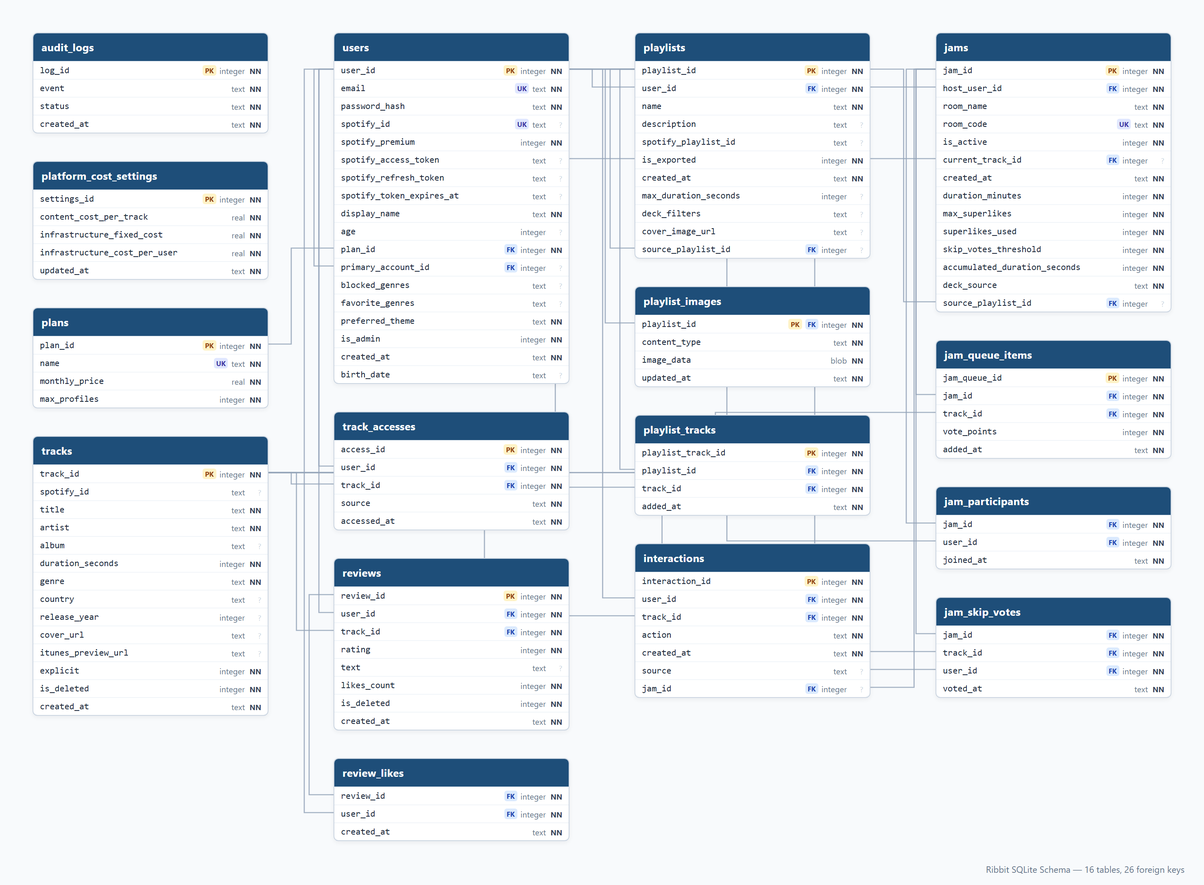
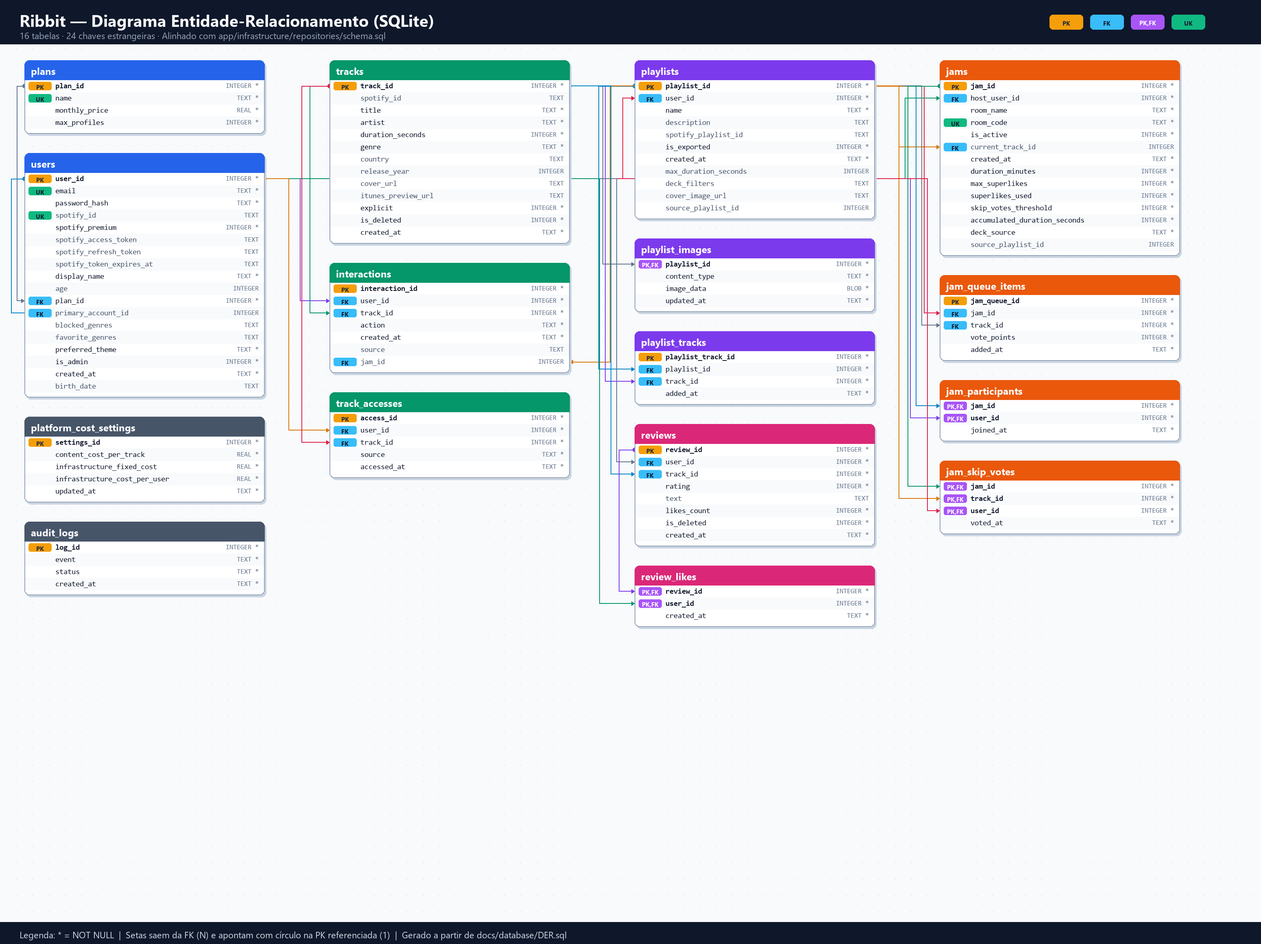
docs: Sync DER, SQL scripts, README, and TODO
Align DER.sql, DER.png, modular SQL scripts, and README erDiagram with
schema.sql; add Team Responsibilities, Definition of Done, CI/CD, and
AI Usage sections; update Ubuntu 26.04 setup, locked versions, and test
badges; and trim TODO.md to remaining manual tasks.

diff --git a/README.md b/README.md
@@ -4,8 +4,8 @@
 
 [![Testes](https://github.com/gabrielGAGRA/Laboratorio_Engenharia_Software/actions/workflows/tests.yml/badge.svg)](https://github.com/gabrielGAGRA/Laboratorio_Engenharia_Software/actions/workflows/tests.yml)
 [![Quality Gate](https://github.com/gabrielGAGRA/Laboratorio_Engenharia_Software/actions/workflows/quality-gate.yml/badge.svg)](https://github.com/gabrielGAGRA/Laboratorio_Engenharia_Software/actions/workflows/quality-gate.yml)
-![Testes Automatizados](https://img.shields.io/badge/tests-1146%20passed%20(927%20pytest%20%2B%20219%20vitest)-brightgreen)
-![Cobertura de Código](https://img.shields.io/badge/coverage-%E2%89%A585%25%20(pytest--cov)-blue)
+![Testes Automatizados](https://img.shields.io/badge/tests-1307%20passed%20(1007%20pytest%20%2B%20300%20vitest)-brightgreen)
+![Cobertura de Código](https://img.shields.io/badge/coverage-%E2%89%A585%25%20(pytest--cov%2089.21%25%20%7C%20vitest%20v8%2087.27%25)-blue)
 
 ### Time: Crazy Frogs
 - Carolina Britto Haddad
@@ -13,13 +13,21 @@
 - Gabriel Agra de Castro Motta
 - Mateus Silva de Araújo
 
+### Divisão de Responsabilidades da Equipe
+- **Gabriel Agra**: Arquitetura hexagonal e estrutura base (refatoração inicial e revisões de PRs); regras de engenharia, linters e type-checking (Python, Angular e TypeScript: Ruff, Pyrefly, Oxlint, ESLint-Angular); testes (pytest, vitest, cobertura >= 85%, E2E Playwright e vídeos) e CI/CD (quality gate e verificação de cobertura); README, badges, histórico de escuta, filtros/ordenação por avaliações, criação de faixas, métricas de interação, painel de custos e analytics de acessos no Admin.
+- **Carolina Haddad**: *(a completar)*
+- **Fernando Mendes**: *(a completar)*
+- **Mateus Araujo**: *(a completar)*
+
 ## Sumário
 - [Sobre](#sobre)
+- [Divisão de Responsabilidades da Equipe](#divisão-de-responsabilidades-da-equipe)
 - [Funcionalidades](#funcionalidades)
   - [Aplicativo](#aplicativo)
   - [Painel Administrativo](#painel-administrativo-web)
 - [Descrição de Uso do Sistema](#descrição-de-uso-do-sistema)
 - [Histórias de Usuário](#histórias-de-usuário)
+  - [Definição de Done (DoD)](#definição-de-done-dod)
 - [Arquitetura e Tecnologias](#arquitetura-e-tecnologias)
   - [Ferramentas, Bibliotecas, Frameworks e SGBD](#ferramentas-bibliotecas-frameworks-e-sgbd)
   - [Mapeamento MVC e Arquitetura Hexagonal](#mapeamento-mvc-e-arquitetura-hexagonal)
@@ -31,6 +39,8 @@
 - [Fluxo de Execução para o Administrador / Avaliador](#fluxo-de-execução-para-o-administrador--avaliador)
 - [Como Visualizar](#como-visualizar)
 - [Testes Automatizados & Qualidade](#testes-automatizados--qualidade)
+  - [Integração Contínua (CI/CD)](#integração-contínua-cicd)
+- [Uso de IA](#uso-de-ia)
 
 ---
 
@@ -119,7 +129,7 @@ O projeto é composto por duas frentes:
 
 ## Descrição de Uso do Sistema
 
-1. **Cadastro e Login**: Na tela inicial (`/auth`), o usuário maior de 18 anos cria sua conta informando nome, e-mail, data de nascimento, senha e plano inicial (Free, Individual ou Família), ou realiza login com uma conta existente.
+1. **Cadastro e Login**: Na tela inicial (`/auth`), o usuário cria sua conta informando nome, e-mail, data de nascimento, senha e plano inicial (menores de 18 anos podem se cadastrar no plano **Free** ou participar como dependentes no **Plano Família**, enquanto planos pagos exigem maioridade), ou realiza login com uma conta existente.
 2. **Descoberta por Swipe (`/discover`)**: O usuário visualiza um card por vez com capa, metadados, selo **Ouvido** (quando já acessada) e prévia de áudio. Pode arrastar ou usar os botões para **Curtir** (direita), **Amar/Superlike** (cima), **Rejeitar** (esquerda), **Desfazer** (planos pagos, restaurando a faixa diretamente do backend) ou adicionar diretamente a uma playlist (`+`).
 3. **Playlists Inteligentes (`/playlists`)**: Permite criar playlists com filtros de duração, gênero, artista ou época e montá-las via swipe sem afetar as Curtidas globais, além de gerenciar faixas e exportar para o Spotify.
 4. **Jams Colaborativas (`/jams`)**: Usuários com Spotify Premium conectado criam uma sala (recebendo um código de 6 dígitos) ou entram em uma sala ativa para votar nas próximas faixas da fila e votar para pular a faixa atual.
@@ -132,13 +142,21 @@ O projeto é composto por duas frentes:
 
 As 35 histórias de usuário (HU01–HU35) abaixo consolidam o escopo funcional do projeto, detalhando **tipo de usuário**, **tarefas e subtarefas**, **responsável** e **critérios de aceitação**.
 
+### Definição de Done (DoD)
+
+Uma história de usuário é considerada **Done** apenas quando atende a todos os critérios abaixo:
+- [ ] **Código e Arquitetura:** Implementação aderente à arquitetura hexagonal (`app/`) e standalone/Signals (`view/`), revisada via Pull Request.
+- [ ] **Qualidade Estática:** Aprovado no *Quality Gate* sem erros (`ruff format --check`, `ruff check`, `pyrefly check`, `npm run lint`, `npm run typecheck`).
+- [ ] **Testes e Cobertura:** Testes unitários e/ou de integração cobrindo os critérios de aceitação, mantendo cobertura $\ge 85\%$ (`pytest --cov=app --cov-fail-under=85` e `vitest --coverage`).
+- [ ] **Validação E2E e Documentação:** Fluxos principais validados em navegador (`npm run test:e2e`) e documentação (`README.md`, `docs/database/`) atualizada quando aplicável.
+
 ### Épico 1 — Cadastro e Preferências
 
 | ID | Título | Tipo de Usuário | Tarefas e Subtarefas | Responsável | Critérios de Aceitação |
 | :--- | :--- | :--- | :--- | :--- | :--- |
 | **HU01** | Criar conta | Novo Usuário | **Backend:** Endpoint `POST /api/auth/register`, hash PBKDF2 e validação Pydantic.<br>**Frontend:** Tela de cadastro (`AuthComponent`) com validação de e-mail, senha e idade. | Gabriel Agra | • Consegue criar conta com solicitação e validação de dados.<br>• Acessa a conta imediatamente após o cadastro. |
 | **HU02** | Definir preferências musicais | Novo Usuário | **Backend:** Persistência de `favorite_genres` em `users` e endpoint de atualização.<br>**Frontend:** Seleção de gêneros e artistas favoritos no perfil/onboarding. | Carolina Haddad | • Seleciona gêneros e artistas de interesse.<br>• Preferências são salvas no perfil e usadas nas recomendações. |
-| **HU03** | Bloquear gêneros musicais | Usuário Padrão | **Backend:** Campo `blocked_genres` no modelo `User` e filtro em `RecommendationService`.<br>**Frontend:** Gestão de gêneros bloqueados em Configurações/Perfil. | Carolina Haddad | • Adiciona e remove gêneros bloqueados.<br>• Faixas exclusivamente desses gêneros não aparecem em Descobertas nem Playlists. |
+| **HU03** | Bloquear gêneros musicais | Usuário Padrão | **Backend:** Campo `blocked_genres` no modelo `User` e filtro em `recommendation.py` (`select_weighted_track`, `order_tracks_by_weighted_seed`).<br>**Frontend:** Gestão de gêneros bloqueados em Configurações/Perfil. | Carolina Haddad | • Adiciona e remove gêneros bloqueados.<br>• Faixas exclusivamente desses gêneros não aparecem em Descobertas nem Playlists. |
 
 ### Épico 2 — Descoberta de Músicas
 
@@ -148,7 +166,7 @@ As 35 histórias de usuário (HU01–HU35) abaixo consolidam o escopo funcional 
 | **HU05** | Curtir uma música | Usuário Padrão | **Backend:** `RecordSwipeInteractionUseCase` gravando `action='like'`.<br>**Frontend:** Gesto de swipe para a direita / botão Like e listagem em `/likes`. | Fernando Seraco | • Dá like e salva a faixa em Curtidas.<br>• Faixa não retorna como descoberta inédita e fica visível em Curtidas. |
 | **HU06** | Amar uma música | Usuário Padrão | **Backend:** `RecordSwipeInteractionUseCase` gravando `action='superlike'`.<br>**Frontend:** Gesto de swipe para cima / botão Superlike e listagem em `/loved`. | Fernando Seraco | • Dá superlike e adiciona a faixa às Amadas e Curtidas.<br>• Não reaparece na descoberta; visualizada separadamente em Amadas. |
 | **HU07** | Rejeitar uma música | Usuário Padrão | **Backend:** `RecordSwipeInteractionUseCase` gravando `action='dislike'`.<br>**Frontend:** Gesto de swipe para a esquerda / botão Rejeitar e listagem em `/rejected`. | Mateus Araújo | • Rejeita a faixa e a envia para Rejeitadas.<br>• Não retorna em Descobertas nem sugestões de Playlists.<br>• Listagem consultável pelo usuário. |
-| **HU08** | Descobrir músicas a partir das preferências | Usuário Padrão | **Backend:** Ponderação em `RecommendationService` por artistas/gêneros curtidos e amados.<br>**Frontend:** Atualização dinâmica do feed em `DiscoverComponent`. | Gabriel Agra | • Considera Curtidas, Amadas, artistas e gêneros favoritos.<br>• Exclui Rejeitadas e gêneros bloqueados.<br>• Permite avaliação por swipe. |
+| **HU08** | Descobrir músicas a partir das preferências | Usuário Padrão | **Backend:** Ponderação em `recommendation.py` (`select_weighted_track`, `order_tracks_by_weighted_seed`) por artistas/gêneros curtidos e amados.<br>**Frontend:** Atualização dinâmica do feed em `DiscoverComponent`. | Gabriel Agra | • Considera Curtidas, Amadas, artistas e gêneros favoritos.<br>• Exclui Rejeitadas e gêneros bloqueados.<br>• Permite avaliação por swipe. |
 
 ### Épico 3 — Playlists Inteligentes e Contextuais
 
@@ -218,14 +236,15 @@ As 35 histórias de usuário (HU01–HU35) abaixo consolidam o escopo funcional 
 #### Backend (Python — `requirements.txt` & `pyproject.toml`)
 | Biblioteca / Framework | Versão Exata | Finalidade |
 | :--- | :--- | :--- |
-| **FastAPI** | `0.162.0` | Framework web REST, roteamento e geração OpenAPI (`/docs`) |
+| **FastAPI** | `0.163.1` | Framework web REST, roteamento e geração OpenAPI (`/docs`) |
 | **Uvicorn** | `0.54.0` | Servidor ASGI para execução da API |
-| **Pydantic** + **email-validator** | `2.14.1` (`pydantic-core==2.50.1`, `email-validator==2.3.0`) | Validação de esquemas de entrada/saída e configurações |
-| **Starlette** + **AnyIO** | `1.10.0` / `4.15.1` | Camada ASGI subjacente e primitivos assíncronos |
-| **Niquests** | `3.21.2` | Cliente HTTP para integrações externas (Spotify, iTunes, Google OAuth) |
+| **Pydantic** + **email-validator** | `2.14.3` (`pydantic-core==2.50.4`, `email-validator==2.4.0`) | Validação de esquemas de entrada/saída e configurações |
+| **Starlette** + **AnyIO** | `1.10.0` / `4.16.0` | Camada ASGI subjacente e primitivos assíncronos |
+| **Niquests** | `3.21.3` | Cliente HTTP para integrações externas (Spotify, iTunes, Google OAuth) |
 | **Google Cloud Storage** | `3.17.1` | Leitura/compactação de catálogo no GCS e emulador local (`fake-gcs-server`) |
-| **PyArrow** | `26.0.0` | Leitura e escrita do catálogo musical em formato Apache Parquet |
-| **python-dotenv** | `1.0.1` | Carregamento de variáveis de ambiente via `.env` |
+| **PyArrow** | `26.0.1` | Leitura e escrita do catálogo musical em formato Apache Parquet |
+| **Pillow** | `13.0.0` | Processamento e validação de imagens de capa de playlists |
+| **python-dotenv** | `1.2.4` | Carregamento de variáveis de ambiente via `.env` |
 
 #### Frontend (TypeScript / Angular — `package.json`)
 | Biblioteca / Framework | Versão Exata | Finalidade |
@@ -244,14 +263,14 @@ As 35 histórias de usuário (HU01–HU35) abaixo consolidam o escopo funcional 
 #### Infraestrutura, Qualidade, Linting, Tipagem e Testes
 | Ferramenta | Versão Exata | Finalidade |
 | :--- | :--- | :--- |
-| **Docker Engine & Docker Compose** | `docker.io` `24.x+` / `docker-compose-v2` (`v2.x+`) | Orquestração local dos containers (`backend`, `frontend` e `gcs-emulator`) |
-| **Pytest** | `9.1.1` | Suíte de testes unitários e integração da API do backend (927 testes) |
-| **Playwright** | *(configurado em `tests/e2e/`)* | Testes funcionais ponta a ponta no navegador e gravação de vídeos de execução |
-| **Vitest** + **JSDOM** | `^5.1.0` (`package.json`, `v3.2.7` resolvido) / `^26.0.0` | Suíte de testes unitários do frontend Angular (219 testes) |
-| **Ruff** | `0.17.2` | Linter e formatador Python |
-| **Pyrefly** | `1.4.0` | Verificador estático de tipos Python (`preset = "strict"`) |
-| **Oxlint** + **oxlint-tsgolint** + **Oxfmt** | `^1.88.0` / `^7.0.2004` / `^0.73.0` | Linting *type-aware* e formatação TypeScript/HTML/CSS |
-| **ESLint** + **angular-eslint** | `^10.13.0` / `^22.6.0` | Regras de lint específicas para templates e componentes Angular |
+| **Docker Engine & Docker Compose** | `docker.io` `24.x+` / `docker-compose-v2` (`v2.x+`) / `nginx:alpine` | Orquestração local dos containers (`backend`, `frontend` servido via `nginx:alpine` e `gcs-emulator`) |
+| **Pytest** + **pytest-cov** + **coverage** + **Hypothesis** | `9.2.0` / `7.1.0` / `7.17.3` / `6.170.17` | Suíte de testes unitários, propriedade e integração da API do backend (1007 testes, 89.21% de cobertura) |
+| **Playwright** + **ffmpeg** | `1.65.1` (`@playwright/test`) / `ffmpeg` (Ubuntu) | Testes funcionais ponta a ponta no navegador e gravação de vídeos de execução (`npm run record:e2e`) |
+| **Vitest** + **@vitest/coverage-v8** + **JSDOM** | `5.1.2` / `5.1.2` / `26.1.0` | Suíte de testes unitários e cobertura do frontend Angular (300 testes em 45 arquivos, 87.27% de linhas) |
+| **Ruff** | `0.17.5` | Linter e formatador Python |
+| **Pyrefly** | `1.4.1` | Verificador estático de tipos Python (`preset = "strict"`) |
+| **Oxlint** + **oxlint-tsgolint** + **Oxfmt** | `1.88.0` / `7.0.2004` / `0.73.0` | Linting *type-aware* e formatação TypeScript/HTML/CSS |
+| **ESLint** + **angular-eslint** | `10.13.0` / `22.6.0` | Regras de lint específicas para templates e componentes Angular |
 | **uv** | `0.13.1` | Gerenciador de pacotes e ambientes Python |
 
 > **Nota sobre a evolução da especificação:** Os diagramas iniciais do documento de especificação (*Tecnologia-Arquitetura*) previam Redis/DynamoDB e Deezer em nível conceitual. A implementação usa **SQLite 3** como banco local/cache, **Firestore** para sincronização dos dados persistentes em produção, **GCS/Parquet** para o catálogo, **Spotify + iTunes** como APIs externas e **Angular 22 + FastAPI**, documentados nos diagramas atualizados abaixo.
@@ -265,7 +284,7 @@ O projeto combina **MVC (Model-View-Controller)** na divisão macro entre fronte
 | Camada MVC | Diretórios no Repositório | Responsabilidade e Coerência com o Código |
 | :--- | :--- | :--- |
 | **View** | `view/src/app/features/`<br>`view/src/app/shared/` | Interface SPA em Angular (componentes standalone, templates `.html`, estilos `.css`). Inclui as telas de autenticação/ouvinte (`auth`, `discover`, `playlists`, `jams`, `explore`, `profile` + `collection`, `family`, `plans`, `settings`, `dashboard`, `not-found`), os componentes compartilhados (`shared/`) e o painel administrativo (`admin/*`: `admin-login`, `admin-shell`, `admin-dashboard`, `admin-users`, `admin-plans`, `admin-moderation`). |
-| **Controller** | `app/presentation/routers/`<br>`app/presentation/schemas/`<br>`app/presentation/dependencies/`<br>`app/application/use_cases/`<br>`app/application/dtos/`<br>`view/src/app/core/`<br>`view/src/app/features/*/*.service.ts` | **Backend:** Routers FastAPI (`auth.py`, `discovery.py`, `playlists.py`, `jams.py`, `tracks_reviews.py`, `profile.py`, `spotify.py`, `admin.py`) recebem requisições HTTP/REST, validam schemas Pydantic (`schemas/`) e delegam aos *Use Cases* (`use_cases/`).<br>**Frontend:** Serviços Angular com Signals, interceptors e guards (`RibbitStateService`, `SongService`, `PlaylistService`, `PlanService`, `AudioPlayerService`, `AuthSessionNotifier`, `authInterceptor` em `core/`, além de `AdminStateService`, `adminAuthGuard`, `DashboardService`, `JamService`, `AuthApiService`, `ProfileApiService` em `features/`). |
+| **Controller** | `app/presentation/routers/`<br>`app/presentation/schemas/`<br>`app/presentation/dependencies/`<br>`app/application/use_cases/`<br>`app/application/dtos/`<br>`app/composition/`<br>`view/src/app/core/`<br>`view/src/app/features/*/*.service.ts` | **Backend:** Routers FastAPI (`auth.py`, `discovery.py`, `playlists.py`, `jams.py`, `tracks_reviews.py`, `profile.py`, `spotify.py`, `admin.py`) recebem requisições HTTP/REST, validam schemas Pydantic (`schemas/`) e delegam aos *Use Cases* (`use_cases/`), com injeção de dependências centralizada no *Composition Root* (`app/composition/container.py`).<br>**Frontend:** Serviços Angular com Signals, interceptors e guards (`RibbitStateService`, `SongService`, `PlaylistService`, `PlanService`, `AudioPlayerService`, `AuthSessionNotifier`, `authInterceptor` em `core/`, além de `AdminStateService`, `adminAuthGuard`, `DashboardService`, `JamService`, `AuthApiService`, `ProfileApiService` em `features/`). |
 | **Model** | `app/domain/models/`<br>`app/domain/services/`<br>`app/application/ports/`<br>`app/infrastructure/` | **Domínio Puro:** Entidades/modelos (`Plan`, `User`, `Track`, `Playlist`, `Jam`, `JamQueueItem`, `Interaction`, `ReviewComment`, `TrackAccess`, `PlatformCostSettings`) e serviços/funções de domínio (`FamilyPlanService`, `SubscriptionAnalyticsService`, funções de recomendação em `recommendation.py`).<br>**Persistência & Adapters:** Repositórios SQLite (`SQLite*Repository`), adapters externos (`SpotifyAdapter`, `SpotifyUserProfileAdapter`, `ITunesAdapter`, `GoogleIdpVerifierAdapter`, `GoogleOAuthAdapter`, `GCSTrackCatalogAdapter`) e segurança (`PBKDF2PasswordHasher`, `HMACTokenService`) implementam os *ports*. |
 
 ---
@@ -286,11 +305,13 @@ flowchart TB
 
     FEController -->|"HTTP / REST JSON<br/>(Bearer Token)"| Presentation
 
-    subgraph Controller["CONTROLLER — Presentation & Application (app/)"]
+    subgraph Controller["CONTROLLER — Presentation, Application & Composition (app/)"]
         Presentation["Presentation Layer<br/>(app/presentation/routers/*<br/>+ schemas/* + dependencies/*)"]
+        Composition["Composition Root<br/>(app/composition/container.py)"]
         UseCases["Application Use Cases & DTOs<br/>(app/application/use_cases/* + dtos/*)"]
         Ports["Ports / Interfaces<br/>(app/application/ports/repositories &<br/>services)"]
-        Presentation --> UseCases
+        Presentation --> Composition
+        Composition --> UseCases
         UseCases --> Ports
     end
 
@@ -561,7 +582,6 @@ erDiagram
         TEXT spotify_id
         TEXT title
         TEXT artist
-        TEXT album
         INTEGER duration_seconds
         TEXT genre
         TEXT country
@@ -736,14 +756,15 @@ Os protótipos de alta e baixa fidelidade das telas do aplicativo e do fluxo de 
 
 ### Opção 1: Com Docker Compose (Recomendado - 100% Local)
 
-Instale o Docker Engine e o plugin Docker Compose no Ubuntu 26.04 (caso ainda não possua):
+Instale o Docker Engine e o plugin Docker Compose no Ubuntu 26.04 (caso ainda não possua) e adicione seu usuário ao grupo `docker`:
 ```bash
 sudo apt-get update && sudo apt-get install -y ca-certificates curl git
 sudo apt-get install -y docker.io docker-compose-v2
 sudo systemctl enable --now docker
+sudo usermod -aG docker "$USER" && newgrp docker
 ```
 
-Com o Docker e o Docker Compose instalados, suba o frontend, o backend (com carga automática de [`database/dump.sql`](database/dump.sql)) e o emulador de armazenamento em nuvem (GCS local) com persistência em volumes e sem precisar de credenciais de nuvem:
+Com o Docker e o Docker Compose instalados, suba o frontend, o backend (com carga automática de [`database/dump.sql`](database/dump.sql)) e o emulador de armazenamento em nuvem (GCS local) com persistência em volumes e sem precisar de credenciais de nuvem (caso não tenha reiniciado a sessão após `usermod`, use `sudo docker compose up --build`):
 
 ```bash
 docker compose up --build
@@ -772,16 +793,21 @@ sudo apt-get install -y nodejs
 ```
 
 #### 2. Configurar Ambiente Python, Dependências e Banco de Dados
-Na raiz do repositório, crie o ambiente virtual com Python 3.15, ative-o, instale as dependências exatas de [`requirements.txt`](requirements.txt) e [`package.json`](package.json) e aplique o dump SQL inicial ([`database/dump.sql`](database/dump.sql)):
+Na raiz do repositório, sincronize o ambiente Python com [`uv.lock`](uv.lock) via `uv sync --frozen` (recomendado; alternativamente use `uv venv --python 3.15 .venv && uv pip install -r requirements.txt`), instale as dependências Node de [`package.json`](package.json) e inicialize o banco SQLite a partir de [`database/dump.sql`](database/dump.sql):
 
 ```bash
-uv venv --python 3.15 .venv
+uv sync --frozen
 source .venv/bin/activate
-uv pip install -r requirements.txt
 npm ci
 chmod +x scripts/start_local.sh
 python scripts/init_db.py
 ```
+
+Scripts utilitários disponíveis em `scripts/`:
+- `python scripts/init_db.py --force`: recria o banco SQLite local (`local.db`) sobrescrevendo dados existentes.
+- `python scripts/bootstrap_local_gcs.py`: popula o emulador local `fake-gcs-server` com os arquivos `.parquet` do catálogo.
+- `python scripts/sync_tracks.py`: sincroniza o catálogo de faixas com o GCS/Parquet e banco local.
+- `python scripts/prepare_e2e_db.py`: prepara o banco SQLite determinístico para execução dos testes E2E Playwright.
 
 > **Nota sobre execução offline e variáveis de ambiente (opcional):** Na Opção 2 (manual sem Docker), o backend opera 100% localmente usando apenas o banco SQLite inicializado por `database/dump.sql`, sem subir o container `fake-gcs-server`. Caso queira habilitar sincronização com Google Cloud Storage (GCS) ou integração com Spotify e Google OAuth, copie `.env.example` para `.env` e preencha suas credenciais.
 
@@ -822,7 +848,7 @@ Siga o passo a passo abaixo para validar todas as funcionalidades administrativa
 
 1. **Acessar o Login Administrativo:**
    - Abra [http://localhost:4200/admin/login](http://localhost:4200/admin/login) no navegador.
-   - Utilize as credenciais padrão configuradas em [`app/config.py`](app/config.py) (ou clique no botão **"Preencher credenciais demo"** na própria tela):
+   - Insira diretamente as credenciais de administrador configuradas em [`app/config.py`](app/config.py):
      - **E-mail:** `admin@ribbit.example.com`
      - **Senha:** `RibbitLocal2026!`
    - Clique em entrar (requisição `POST /api/admin/login` validada pelo `adminAuthGuard`).
@@ -870,7 +896,7 @@ Abra qualquer navegador moderno (Chrome, Edge, Firefox, Brave) e acesse:
 A suíte de testes é organizada em quatro frentes independentes:
 
 - **`tests/unit/`**: testes unitários do backend (domínio, casos de uso, adaptadores e routers isolados).
-- **`tests/integration/`**: testes de integração da API FastAPI + SQLite em memória (`test_e2e_flow.py` e `test_client.py`).
+- **`tests/integration/`**: testes de integração da API FastAPI + SQLite em memória (`test_e2e_flow.py`, `test_client.py`, `test_admin_analytics_flow.py` e `test_track_access_flow.py`).
 - **`tests/e2e/`**: testes funcionais ponta a ponta no navegador com Playwright (`*.e2e.ts`), exercitando `view/` + `app/` + banco SQLite juntos nos 5 fluxos (incluindo o painel administrativo `/admin/*`), com gravação de vídeo `.mp4` (H.264, 1080p).
 - **`view/src/app/**/*.spec.ts`**: testes unitários do frontend Angular co-localizados com componentes e serviços (Vitest).
 
@@ -892,10 +918,11 @@ A suíte de testes é organizada em quatro frentes independentes:
   ```
 
 ### Testes Funcionais Web (Playwright) & Vídeos
-- **Instalar o navegador Chromium (primeira execução):**
+- **Instalar o navegador Chromium e dependências de sistema no Ubuntu (primeira execução):**
   ```bash
-  npx playwright install chromium
+  npx playwright install --with-deps chromium
   ```
+- **Pré-requisito para gravação de vídeos (`record:e2e`):** instale o `ffmpeg` (`sudo apt-get install -y ffmpeg`).
 - **Executar os testes E2E no navegador (5 fluxos funcionais distintos):**
   ```bash
   npm run test:e2e
@@ -914,19 +941,35 @@ A suíte de testes é organizada em quatro frentes independentes:
 | **5. Painel Administrativo, Planos e Moderação** | [`05-admin-console-governance-and-moderation.e2e.ts`](tests/e2e/05-admin-console-governance-and-moderation.e2e.ts) | [`05-admin-console-governance-and-moderation.mp4`](docs/videos/05-admin-console-governance-and-moderation.mp4) |
 
 ### Frontend (TypeScript / Angular)
-- **Executar testes unitários (219 testes em 38 arquivos com Vitest):**
+- **Executar testes unitários (300 testes em 45 arquivos com Vitest):**
   ```bash
   npm test
+  ```
+- **Verificar cobertura de código (meta mínima de 85% configurada em [`vitest.config.ts`](vitest.config.ts)):**
+  ```bash
+  npm run test:cov
   ```
 - **Checar tipagem estrita com TypeScript 7:**
   ```bash
   npm run typecheck
   ```
-- **Quality Gate Frontend (Oxlint e Angular ESLint):**
+- **Quality Gate Frontend (Oxlint, Angular ESLint e formatação):**
   ```bash
   npm run lint
+  npm run format:check
   ```
 - **Gerar build de produção:**
   ```bash
   npm run build
   ```
+
+### Integração Contínua (CI/CD)
+Os fluxos do GitHub Actions validam automaticamente cada `push` e `pull_request`:
+- **Testes ([`.github/workflows/tests.yml`](.github/workflows/tests.yml)):** executa `pytest` com verificação de cobertura $\ge 85\%$ (`backend-tests`), suíte unitária Angular com `vitest` (`npm run test:cov`, `frontend-tests`) e testes ponta a ponta em navegador com Playwright (`e2e-browser-tests`, publicando traces/screenshots em caso de falha).
+- **Quality Gate ([`.github/workflows/quality-gate.yml`](.github/workflows/quality-gate.yml)):** valida formatação e lint Python (`ruff format --check`, `ruff check`), tipagem estrita Python (`pyrefly check`), formatação/tipagem/build/lint *type-aware* TypeScript (`npm run format:check`, `npm run typecheck`, `npm run build`, `npm run lint:ts`) e lint de templates/componentes Angular (`npm run lint:angular`).
+
+---
+
+## Uso de IA
+
+A documentação completa do uso de ferramentas de Inteligência Artificial generativa neste projeto — incluindo prompts utilizados, modelos (LLMs) e respectivas versões — está registrada em [`docs/llm-use-declaration/`](docs/llm-use-declaration/).

diff --git a/TODO.md b/TODO.md
@@ -1,6 +1,3 @@
-1. Documentação completa do uso de IA com indicação de LLMs e versões (Requisito obrigatório — pág. 4 e 5)
-"Os grupos devem incluir no repositório do projeto uma pasta contendo os prompts utilizados, indicando LLMs e versões usadas."
-
-2. Padrão de nome do repositório remoto e Kanban
-Repositório no padrão pcs3643-grupoX-nomedoprojeto.
-Quadro Kanban (GitHub Projects) atualizado até a Sprint 7.
+1. Popular `docs/llm-use-declaration/` com a declaração completa do uso de IA (prompts utilizados, LLMs e versões).
+2. Completar a divisão de responsabilidades de Carolina Haddad, Fernando Mendes e Mateus Araujo no `README.md`.
+3. Renomear o repositório remoto para o padrão `pcs3643-grupoX-nomedoprojeto` e atualizar o quadro Kanban (GitHub Projects) até a Sprint 7.
